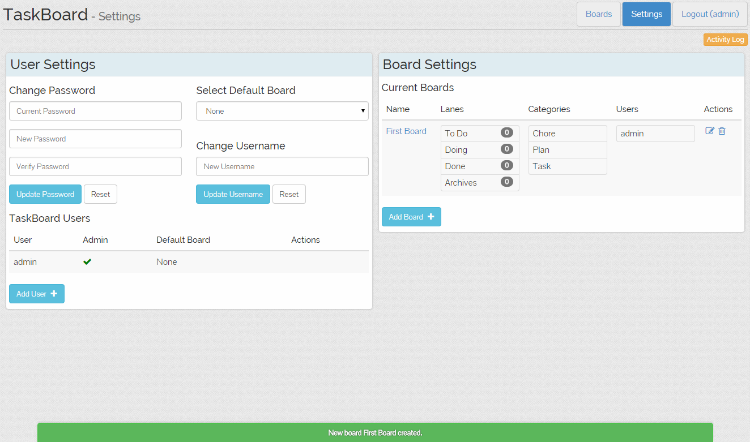
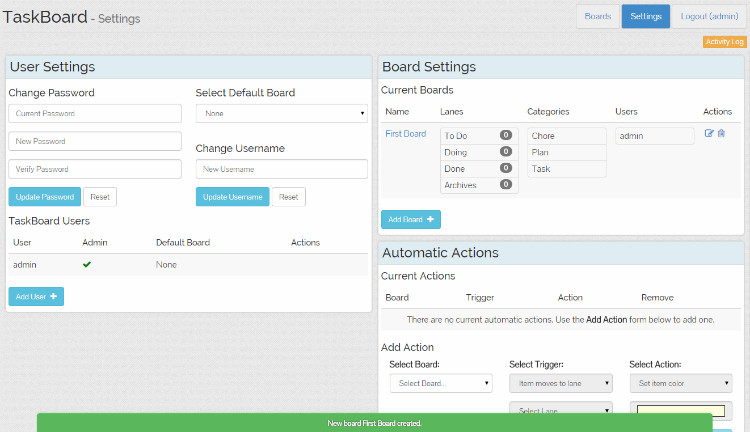
Update docs to cover Automatic Actions.

diff --git a/docs/settings.html b/docs/settings.html
@@ -59,6 +59,7 @@
                             <li><a href="#usersTable">TaskBoard Users Table</a></li>
                             <li><a href="#board">Board Settings</a></li>
                             <li><a href="#addBoard">Add Board</a></li>
+                            <li><a href="#autoActions">Automatic Actions</a></li>
                         </ul>
                     </li>
                 </ul>
@@ -71,7 +72,7 @@
                     <h3>Overview<a name="overview"></a></h3>
                     <p>The settings page is where you manage users and boards. For admin users, there is also an Activity Log that provides a view of actions that have taken place in your TaskBoard install.</p>
                     <p>Standard users can use Settings to change their password, select a default board, and change their username. They will also see a list of users, and a list of their boards.</p>
-                    <p>Admin users get that and more. They are able to add, edit, and remove users and boards, and view the Activity Log.</p>
+                    <p>Admin users get that and more. They are able to add, edit, and remove users and boards, and view the Activity Log. They also have the ability to add and remove Automatic Actions which allows for automated changes to items that meet specific criteria.</p>
                 </div>
                 <div class="col-sm-4">
                     <a href="images/settings-standard.png" data-caption="Settings for a standard user." class="popup-image"><img src="images/settings-standard.png" title="Settings" class="img-responsive"></a>
@@ -153,10 +154,25 @@
                     <a href="images/first-board.png" data-caption="Adding a board." class="popup-image"><img src="images/first-board.png" title="Adding a Board" class="img-responsive"></a>
                 </div>
             </div>
+            <h2>Automatic Actions<a name="autoActions"></a></h2>
+            <div class="row">
+                <div class="col-sm-8">
+                    <p>Automatic actions are a way to have items update automatically when specific criteria are met. All users see a list of automatic actions that are currently available. Admin users also see the Add Action section that allows creation of a new automatic action.</p>
+                    <p>The current implementation allows you to choose from three triggers for an item: moving to a lane, assignee change, and category change. There are four actions that can occur, however not all actions are available to each trigger. The actions that can run against an item are: set color, set category, set assignee, clear due date.</p>
+                    <p>The idea is that you can have things taken care of by TaskBoard. For example, say you use the Date Due to track active items; you can setup an automatic action to clear the due date when an item is moved into the Done column.</p>
+                    <p>If you have ideas for improving the options, <a href="https://github.com/kiswa/TaskBoard/issues">post an issue</a> for consideration!</p>
+                    <h3>Add Action</h3>
+                    <p>To add a new automatic action, start by selecting a board from the dropdown. Next, select a trigger and the trigger detail from the center column dropdowns. Finally, select an action and the action detail from the right column dropdowns. <span class="small note">If "Clear item due date" is selected as the action, there is no action detail.</span></p>
+                </div>
+                <div class="col-sm-4">
+                    <a href="images/auto-actions.png" data-caption="The Automatic Actions section." class="popup-image"><img src="images/auto-actions.png" title="Automatic Actions" class="img-responsive"></a>
+                    <a href="images/auto-actions-admin.png" data-caption="The Automatic Actions section for admins." class="popup-image"><img src="images/auto-actions-admin.png" title="Automatic Actions" class="img-responsive"></a>
+                </div>
+            </div>
             <h2>Next Steps</h2>
             <div class="row">
                 <div class="col-md-12">
-                    <p>Let's get some more details about <a href="boards.html">working within a board</a> now.</p>
+                    <p>Let's get some more details about <a href="boards.html">working within a board</a>.</p>
                 </div>
             </div>
         </div>

diff --git a/docs/intro.html b/docs/intro.html
@@ -1,4 +1,4 @@
- active<!doctype html>
+<!doctype html>
 <html lang="en">
     <head>
         <meta charset="utf-8">
